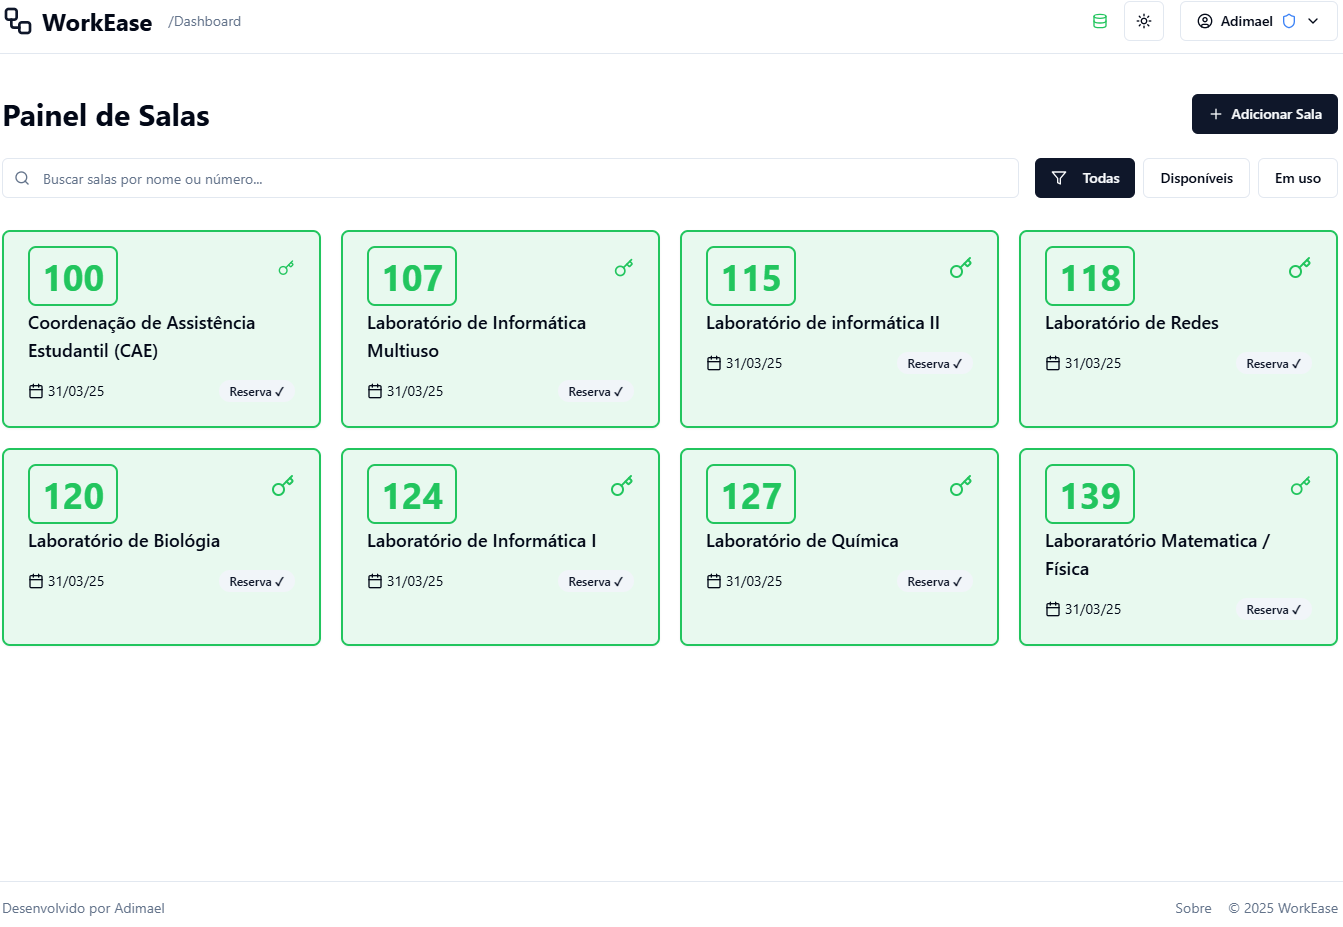
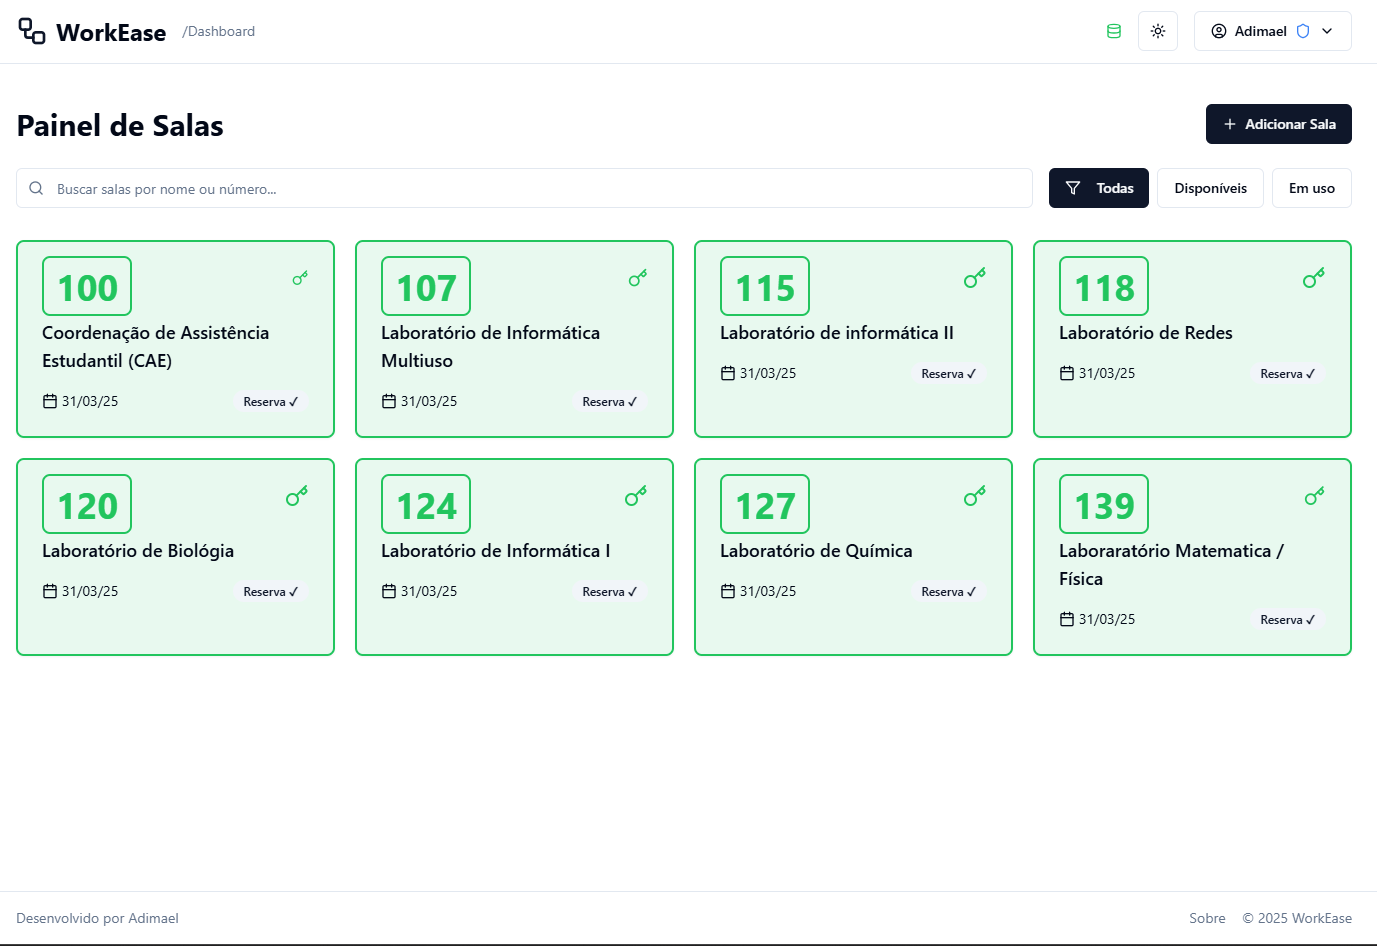
atualização da screenshot-dashboard e README.md

diff --git a/README.md b/README.md
@@ -1,5 +1,7 @@
 # ![Modelo Relacional](doc/favicon.ico) WorkEase - Gerenciamento de Chaves e Salas
 
+![Modelo Relacional](doc/screenshot-dashboard.png)
+
 ## Índice
 
 - [ WorkEase - Gerenciamento de Chaves e Salas](#-workease---gerenciamento-de-chaves-e-salas)
